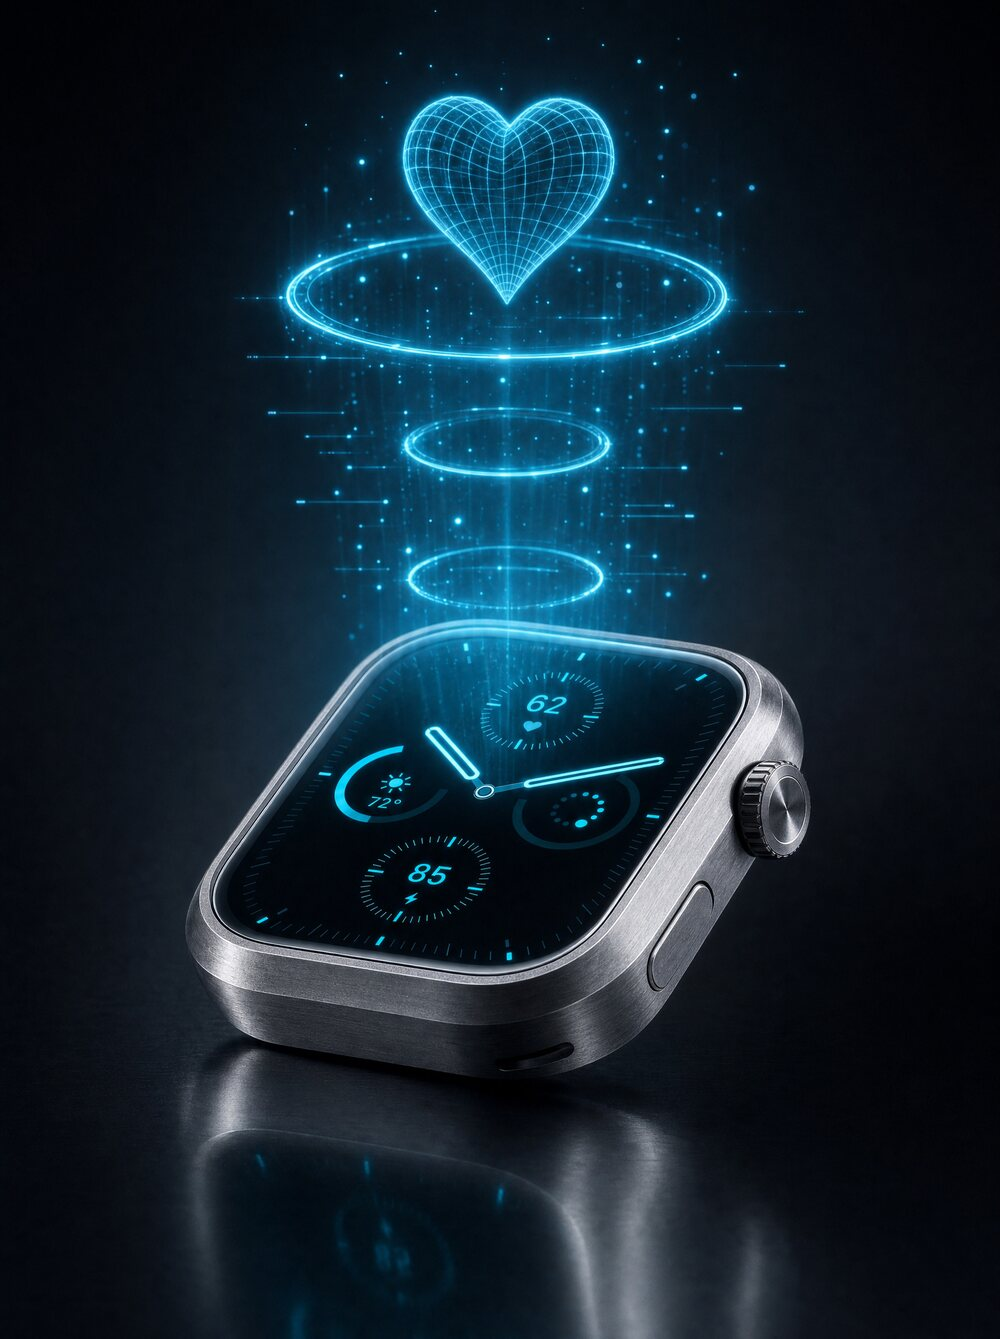
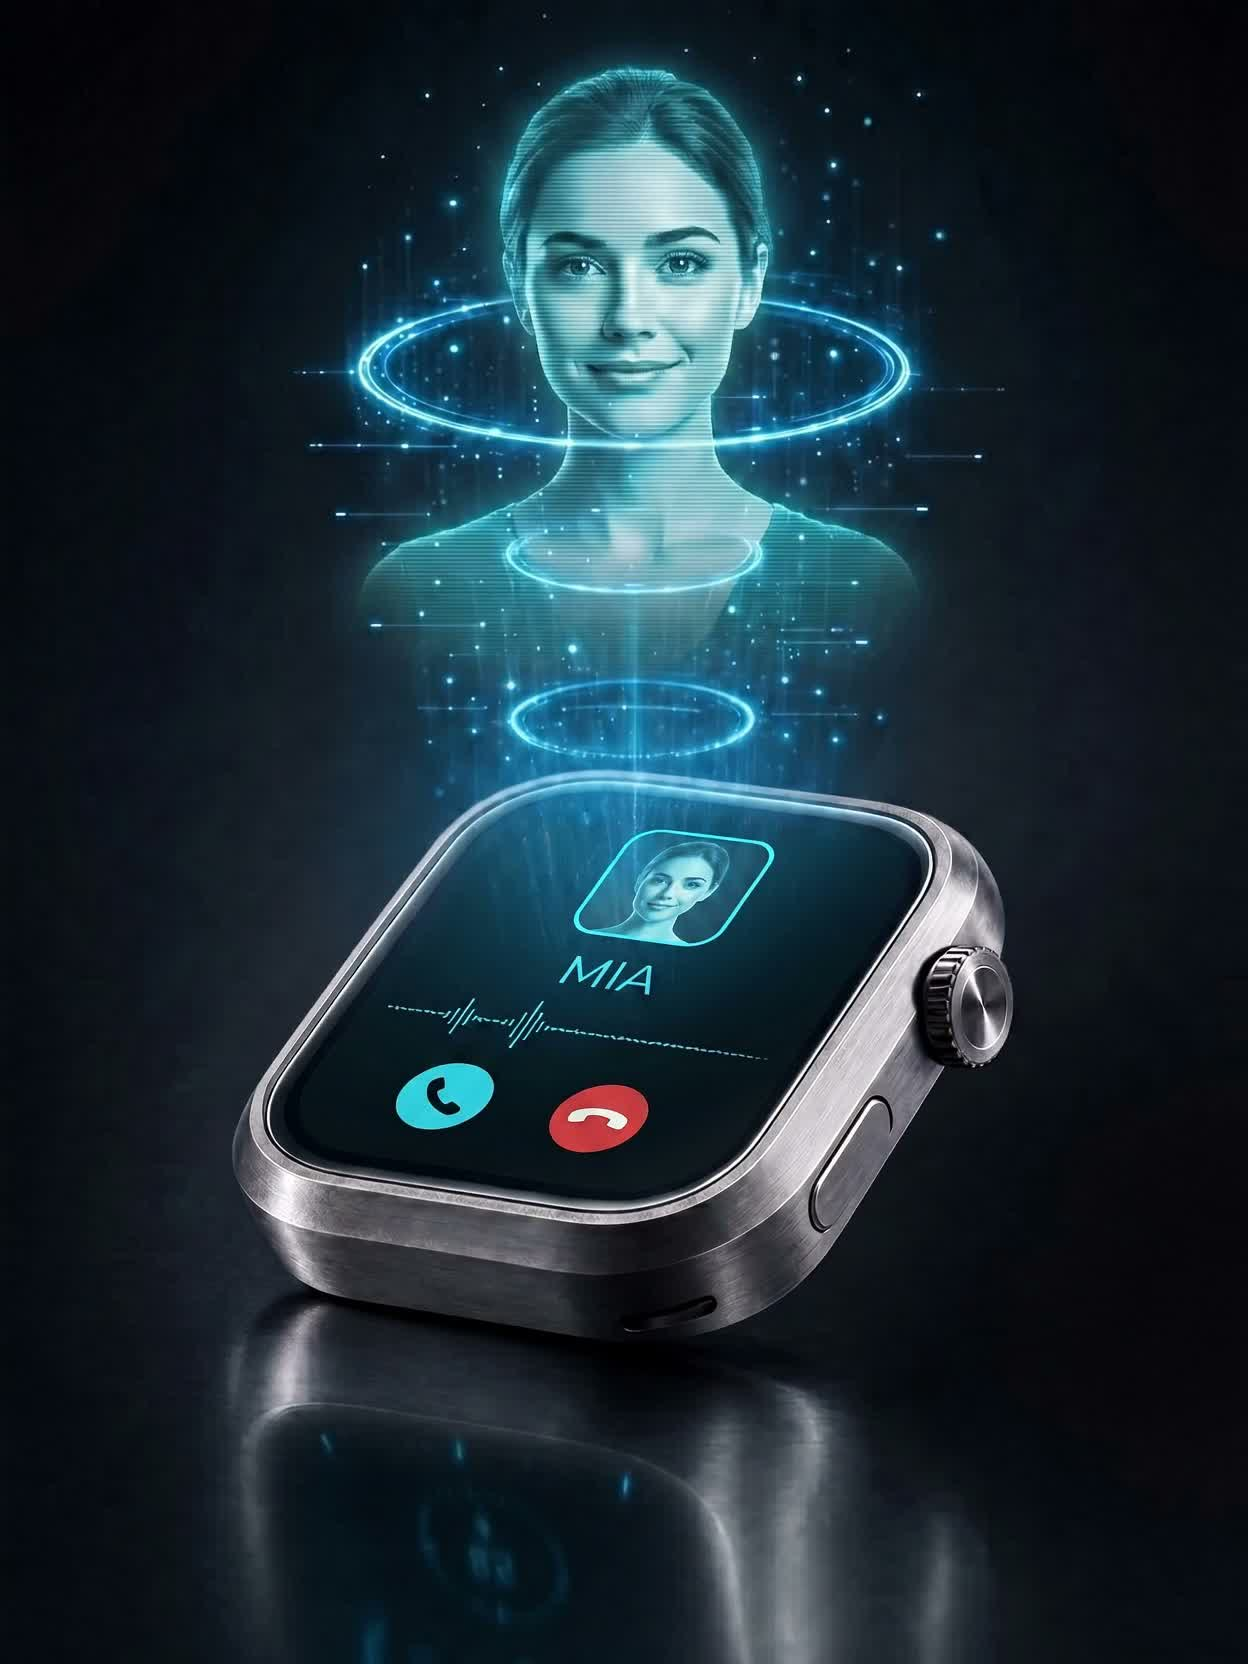
Replace holo section with seamless Star-Trek call video
Swap the heart hologram for a holographic video call: a talking
woman's bust (Mia) above the watch in the cyan accent, with the
screen showing an in-call UI (contact + thumbnail, no clock).
Generated with start frame = end frame so the watch stays static
and the loop is seamless with no visible jump.

Also refines the Closer Look, Footer and Highlights sections.

Changed region(s): [[0.186, 0.0306, 0.806, 0.7655], [0.62, 0.643, 0.651, 0.6736], [0.217, 0.7961, 0.248, 0.8267]]

diff --git a/src/components/Footer.tsx b/src/components/Footer.tsx
@@ -1,4 +1,4 @@
-import { useRef, useState, type JSX } from 'react'
+import { useEffect, useRef, useState, type JSX } from 'react'
 import { m, useInView, useReducedMotion } from 'framer-motion'
 import { ease } from '../anim'
 
@@ -10,11 +10,11 @@ import { ease } from '../anim'
 // for reduced-motion users.
 const GEM_OUTLINE = 'M14 5 H34 L43 17 L24 43 L5 17 Z'
 
-const Gem = (): JSX.Element => {
+const Gem = ({ ignite }: { ignite: boolean }): JSX.Element => {
   const reduced = useReducedMotion() ?? false
 
   return (
-    <div className="relative grid h-16 w-16 place-items-center">
+    <div className="group relative grid h-16 w-16 cursor-default place-items-center">
       {/* breathing aura */}
       <m.div
         aria-hidden
@@ -23,10 +23,26 @@ const Gem = (): JSX.Element => {
         animate={reduced ? undefined : { opacity: [0.4, 0.78, 0.4], scale: [0.9, 1.08, 0.9] }}
         transition={reduced ? undefined : { duration: 3.6, repeat: Infinity, ease: 'easeInOut' }}
       />
+      {/* hover glow — the stone warms when you bring a cursor near it */}
+      <div
+        aria-hidden
+        className="absolute h-16 w-16 rounded-full opacity-0 transition-opacity duration-500 group-hover:opacity-100"
+        style={{ background: 'radial-gradient(circle, oklch(0.85 0.14 205 / 0.55), transparent 65%)', filter: 'blur(10px)' }}
+      />
+      {/* ignition flash: the gem fires the light that goes on to write the line */}
+      {!reduced && (
+        <m.div
+          aria-hidden
+          className="pointer-events-none absolute h-16 w-16 rounded-full"
+          style={{ background: 'radial-gradient(circle, oklch(1 0.04 200 / 0.9), transparent 60%)' }}
+          initial={{ opacity: 0, scale: 0.5 }}
+          animate={ignite ? { opacity: [0, 0.85, 0], scale: [0.5, 1.5, 1.2] } : { opacity: 0 }}
+          transition={{ duration: 0.7, ease, times: [0, 0.3, 1] }}
+        />
+      )}
       <svg
         viewBox="0 0 48 48" role="img" aria-label="Faceted sapphire"
-        className="relative h-12 w-12 overflow-visible"
-        style={{ filter: 'drop-shadow(0 4px 8px oklch(0.13 0.013 245 / 0.65))' }}
+        className="relative h-12 w-12 overflow-visible transition-[filter] duration-500 [filter:drop-shadow(0_4px_8px_oklch(0.13_0.013_245/0.65))] group-hover:[filter:drop-shadow(0_0_14px_oklch(0.85_0.12_205/0.7))]"
       >
         <defs>
           <linearGradient id="gemTable" x1="0" y1="0" x2="0" y2="1">
@@ -107,11 +123,26 @@ const LaserLine = ({ start, reduced, onDone }: { start: boolean; reduced: boolea
 
   return (
     <div className="relative mx-auto mt-6 w-fit">
+      {/* ignition beam: light drops from the gem above and lands on the line,
+          then the horizontal blade takes over and writes the words. */}
+      {start && (
+        <m.span
+          aria-hidden
+          className="pointer-events-none absolute -top-9 left-1/2 h-9 w-[2px] origin-top -translate-x-1/2 rounded-full"
+          style={{
+            background: 'linear-gradient(to bottom, transparent, oklch(0.99 0.02 200) 30%, oklch(0.99 0.02 200))',
+            boxShadow: '0 0 8px oklch(0.9 0.1 205), 0 0 20px oklch(0.85 0.12 205 / 0.7)',
+          }}
+          initial={{ scaleY: 0, opacity: 0 }}
+          animate={{ scaleY: [0, 1, 1], opacity: [0, 1, 0] }}
+          transition={{ duration: 0.55, ease, times: [0, 0.5, 1] }}
+        />
+      )}
       <m.p
         className={cls}
         initial={{ clipPath: 'inset(0 100% 0 0)' }}
         animate={start ? { clipPath: 'inset(0 0% 0 0)' } : { clipPath: 'inset(0 100% 0 0)' }}
-        transition={{ duration: LASER_DUR, ease }}
+        transition={{ duration: LASER_DUR, ease, delay: 0.3 }}
         onAnimationComplete={() => { if (start) onDone() }}
       >
         Measured in light.
@@ -127,7 +158,7 @@ const LaserLine = ({ start, reduced, onDone }: { start: boolean; reduced: boolea
           }}
           initial={{ left: '0%', opacity: 0 }}
           animate={{ left: '100%', opacity: [0, 1, 1, 0] }}
-          transition={{ duration: LASER_DUR, ease, opacity: { duration: LASER_DUR, times: [0, 0.05, 0.92, 1] } }}
+          transition={{ duration: LASER_DUR, ease, delay: 0.3, opacity: { duration: LASER_DUR, delay: 0.3, times: [0, 0.05, 0.92, 1] } }}
         />
       )}
     </div>
@@ -138,13 +169,29 @@ const Footer = (): JSX.Element => {
   const ref = useRef<HTMLDivElement>(null)
   const reduced = useReducedMotion() ?? false
   const inView = useInView(ref, { once: true, margin: '-15%' })
-  // The footer starts empty; once the laser finishes writing the wordmark, the
-  // surrounding content fades in. Reduced-motion shows everything at once.
+  // Reveal is staged so the gem reads as the *source* of the light: the eyebrow
+  // and gem arrive first, the gem fires an ignition flash, a beam drops to the
+  // line, and only then does the laser write the words. The fine print fades in
+  // once writing completes. Reduced-motion shows everything at once.
+  const [igniting, setIgniting] = useState(false)
+  const [writing, setWriting] = useState(false)
   const [written, setWritten] = useState(false)
   const revealed = reduced || written
 
-  // Eyebrow + heart sit above the wordmark, the divider + fine print below;
-  // both groups fade in together after the writing completes.
+  useEffect(() => {
+    if (!inView || reduced) return
+    const t1 = window.setTimeout(() => { setIgniting(true) }, 500)
+    const t2 = window.setTimeout(() => { setWriting(true) }, 850)
+    return () => { window.clearTimeout(t1); window.clearTimeout(t2) }
+  }, [inView, reduced])
+
+  // Top cluster (eyebrow + gem) leads the sequence — visible before the writing.
+  const topFade = {
+    initial: { opacity: 0, y: 6 },
+    animate: { opacity: inView || reduced ? 1 : 0, y: inView || reduced ? 0 : 6 },
+    transition: { duration: 0.8, ease },
+  }
+  // Fine print below the wordmark trails in after the writing completes.
   const fade = {
     initial: { opacity: 0 },
     animate: { opacity: revealed ? 1 : 0, y: revealed ? 0 : 6 },
@@ -161,21 +208,21 @@ const Footer = (): JSX.Element => {
         transition={{ duration: 0.9, ease }}
       />
       <div ref={ref} className="mx-auto max-w-shell text-center">
-        <m.div {...fade}>
+        <m.div {...topFade}>
           <p className="font-sans text-[0.74rem] uppercase tracking-[0.34em] text-accent">A concept prototype</p>
           <div className="mx-auto mt-8 flex justify-center">
-            <Gem />
+            <Gem ignite={igniting} />
           </div>
         </m.div>
 
-        <LaserLine start={inView} reduced={reduced} onDone={() => { setWritten(true) }} />
+        <LaserLine start={writing} reduced={reduced} onDone={() => { setWritten(true) }} />
 
         <m.div {...fade}>
           {/* Branded sign-off: just the wordmark, so the page closes signed
               rather than trailing off — the orbit mark stays unique to the navbar. */}
-          <div className="mx-auto mt-12 flex items-center justify-center gap-2.5 font-display text-[1rem] font-semibold tracking-[0.24em] text-ink/85">
-            <span style={{ textShadow: '0 0 12px oklch(0.8 0.1 205 / 0.4)' }}>AETHER</span>
-            <span className="font-sans text-[0.66rem] font-normal uppercase tracking-[0.3em] text-faint">Aura</span>
+          <div className="group mx-auto mt-12 flex w-fit cursor-default items-center justify-center gap-2.5 font-display text-[1rem] font-semibold tracking-[0.24em] text-ink/85">
+            <span className="transition-[text-shadow] duration-500 [text-shadow:0_0_12px_oklch(0.8_0.1_205/0.4)] group-hover:[text-shadow:0_0_22px_oklch(0.85_0.12_205/0.75)]">AETHER</span>
+            <span className="font-sans text-[0.66rem] font-normal uppercase tracking-[0.3em] text-faint transition-colors duration-500 group-hover:text-accent/80">Aura</span>
           </div>
           <p className="mt-9 font-sans text-[0.8rem] text-faint">
             © 2026 AETHER · Aura. All renders and footage are AI-generated.

diff --git a/src/components/CloserLook.tsx b/src/components/CloserLook.tsx
@@ -13,11 +13,9 @@ interface Feature {
 }
 
 const FEATURES: Feature[] = [
-  { key: 'shell', label: 'Machined shell', body: 'One billet of Grade-5 titanium, milled into a seamless, sealed monocoque.', webp: 'assets/aura_hero_1200.webp', jpg: 'assets/aura_hero_1000.jpg', alt: 'Three-quarter view of the titanium Aura' },
-  { key: 'profile', label: 'Slim profile', body: 'A knife-clean edge that vanishes under a cuff — full sensor stack and all.', webp: 'assets/aura_profile_1200.webp', jpg: 'assets/aura_profile_1000.jpg', alt: 'Side profile of the titanium Aura' },
-  { key: 'sapphire', label: 'Level sapphire', body: 'Sapphire set flush to four microns — light leaves the display without a shadow.', webp: 'assets/aura_cl_sapphire_1200.webp', jpg: 'assets/aura_cl_sapphire_1000.jpg', alt: 'Macro of the flush sapphire crystal on the Aura' },
-  { key: 'sensor', label: 'Optical back', body: 'Cyan and emerald lasers read heart rate and glucose through the skin — no contact pads.', webp: 'assets/aura_cl_sensor_1200.webp', jpg: 'assets/aura_cl_sensor_1000.jpg', alt: 'The Aura caseback with its laser health-sensor array' },
-  { key: 'core', label: 'Nuclear core', body: 'A sliver of radioisotope fuel powers the Aura for decades — no port, no cable, no charge.', webp: 'assets/aura_cl_core_1200.webp', jpg: 'assets/aura_cl_core_1000.jpg', alt: 'Cutaway of the Aura revealing its glowing radioisotope fuel cell' },
+  { key: 'shell', label: 'Machined shell', body: 'One billet of titanium, milled into a sealed monocoque.', webp: 'assets/aura_hero_1200.webp', jpg: 'assets/aura_hero_1000.jpg', alt: 'Three-quarter view of the titanium Aura' },
+  { key: 'sensor', label: 'Optical back', body: 'Lasers read heart rate and glucose straight through the skin.', webp: 'assets/aura_cl_sensor_1200.webp', jpg: 'assets/aura_cl_sensor_1000.jpg', alt: 'The Aura caseback with its laser health-sensor array' },
+  { key: 'core', label: 'Nuclear core', body: 'A sliver of radioisotope fuel runs the Aura for decades. No cable.', webp: 'assets/aura_cl_core_1200.webp', jpg: 'assets/aura_cl_core_1000.jpg', alt: 'Cutaway of the Aura revealing its glowing radioisotope fuel cell' },
 ]
 
 // Sticky product viewer: a pinned render on one side, an accordion of design
@@ -28,20 +26,20 @@ const CloserLook = (): JSX.Element => {
   const img = FEATURES[active] ?? FEATURES[0]!
 
   return (
-    <section id="design" className="relative flex min-h-svh snap-start flex-col justify-center bg-bg px-[max(1.25rem,6vw)] py-[clamp(4rem,9vh,6.5rem)]">
+    <section id="design" className="relative flex min-h-svh snap-start flex-col justify-center px-[max(1.25rem,6vw)] py-[clamp(3rem,6vh,4.5rem)]">
       <div className="mx-auto w-full max-w-shell">
-        <Reveal className="mb-12">
+        <Reveal className="mb-8">
           <p className="font-sans text-[0.74rem] uppercase tracking-[0.34em] text-accent">Take a closer look</p>
           <h2 className="mt-4 font-display text-[clamp(2rem,4.6vw,3.6rem)] font-medium leading-[1.04] text-gradient">
             Design you can feel before you read a spec.
           </h2>
         </Reveal>
 
-        <div className="grid gap-10 md:grid-cols-2 md:gap-16">
+        <div className="grid items-center gap-8 md:grid-cols-2 md:gap-12">
           {/* Sticky product */}
-          <div className="mx-auto w-full max-w-sm md:max-w-none md:sticky md:top-24 md:h-fit">
+          <div className="mx-auto w-full max-w-[18rem] md:sticky md:top-24 md:h-fit md:max-w-sm">
             <div className="relative overflow-hidden rounded-[28px] border border-hairline-soft bg-[radial-gradient(120%_120%_at_50%_0%,oklch(0.22_0.016_242)_0%,oklch(0.145_0.014_245)_70%)]">
-              <div className="relative flex aspect-square items-center justify-center py-8 md:aspect-[4/5] md:py-10">
+              <div className="relative flex aspect-square items-center justify-center py-5">
                 <AnimatePresence mode="wait">
                   <m.picture
                     key={img.key}
@@ -52,7 +50,7 @@ const CloserLook = (): JSX.Element => {
                     className="relative h-full w-full"
                   >
                     <source type="image/webp" srcSet={img.webp} />
-                    <img src={img.jpg} alt={img.alt} className="h-full w-full object-contain p-6" loading="lazy" decoding="async" />
+                    <img src={img.jpg} alt={img.alt} className="h-full w-full object-contain p-4" loading="lazy" decoding="async" />
                   </m.picture>
                 </AnimatePresence>
                 <div className="pointer-events-none absolute left-1/2 top-[12%] h-[1px] w-2/3 -translate-x-1/2 bg-gradient-to-r from-transparent via-accent/40 to-transparent" />
@@ -92,7 +90,7 @@ const CloserLook = (): JSX.Element => {
                   <button
                     onClick={() => { setActive(idx); }}
                     aria-expanded={open}
-                    className="flex w-full items-center gap-4 py-6 pl-5 text-left"
+                    className="flex w-full items-center gap-4 py-4 pl-5 text-left"
                   >
                     <span className={`font-mono text-[0.8rem] tabular-nums transition-colors ${open ? 'text-accent' : 'text-faint'}`}>
                       {`0${String(idx + 1)}`}
@@ -113,7 +111,7 @@ const CloserLook = (): JSX.Element => {
                         transition={{ duration: 0.4, ease }}
                         className="overflow-hidden"
                       >
-                        <p className="pb-7 pl-5 pr-8 font-sans text-[1.05rem] leading-relaxed text-muted">{f.body}</p>
+                        <p className="pb-5 pl-5 pr-8 font-sans text-[1.05rem] leading-relaxed text-muted">{f.body}</p>
                       </m.div>
                     )}
                   </AnimatePresence>

diff --git a/src/components/HoloFeature.tsx b/src/components/HoloFeature.tsx
@@ -90,27 +90,21 @@ const HoloFeature = (): JSX.Element => {
       <div className="relative mx-auto grid max-w-shell items-center gap-12 md:grid-cols-[0.9fr_1.1fr] md:gap-16">
         <m.div style={{ y }}>
           <Reveal>
-            <p className="font-sans text-[0.74rem] uppercase tracking-[0.34em] text-accent">The frontier</p>
+            <p className="font-sans text-[0.74rem] uppercase tracking-[0.34em] text-accent">Holographic calls</p>
             <h2 className="mt-4 font-display text-[clamp(2.2rem,5vw,4rem)] font-medium leading-[1.02]">
               <span
                 className="text-gradient-accent"
                 style={reduced ? undefined : { backgroundSize: '200% auto', animation: 'holo-pan 6s linear infinite' }}
               >
-                A display
+                Face to face
               </span>
               <br />
-              that lifts off the glass.
+              off your wrist.
             </h2>
-            <p className="mt-6 max-w-[44ch] font-sans text-[1.08rem] text-muted">
-              Above the sapphire face, a volumetric layer projects your vitals,
-              alerts and faces into the air — readable at a glance, without ever
-              raising your wrist. This is where elegance meets the future.
+            <p className="mt-6 max-w-[40ch] font-sans text-[1.08rem] text-muted">
+              The Aura lifts your caller into the air as a life-size hologram.
+              Telephony you look in the eye.
             </p>
-            <div className="mt-8 flex flex-wrap gap-3">
-              {['Volumetric UI', 'Depth-true', 'Glance-readable'].map((t) => (
-                <span key={t} className="rounded-full border border-accent/40 bg-accent/10 px-4 py-1.5 font-sans text-[0.84rem] text-ink">{t}</span>
-              ))}
-            </div>
           </Reveal>
         </m.div>
 
@@ -136,7 +130,7 @@ const HoloFeature = (): JSX.Element => {
               ) : (
                 <picture>
                   <source type="image/webp" srcSet="assets/aura_holo_film_poster.webp" />
-                  <img src="assets/aura_holo_film_poster.jpg" alt="The Aura projecting a holographic display" className="absolute inset-0 h-full w-full object-cover" loading="lazy" decoding="async" />
+                  <img src="assets/aura_holo_film_poster.jpg" alt="The Aura projecting a holographic video call of a person above its face" className="absolute inset-0 h-full w-full object-cover" loading="lazy" decoding="async" />
                 </picture>
               )}
             </div>

diff --git a/src/components/Highlights.tsx b/src/components/Highlights.tsx
@@ -31,20 +31,6 @@ const SLIDES: Slide[] = [
     art: 'aura_hl_calls',
   },
   {
-    key: 'hologram',
-    label: 'Hologram',
-    title: 'A display that lifts off.',
-    body: 'Volumetric projection raises your metrics into the air above the sapphire face.',
-    art: 'aura_hl_hologram',
-  },
-  {
-    key: 'titanium',
-    label: 'Titanium',
-    title: 'Flush to four microns.',
-    body: 'The sapphire lens sits perfectly level with the machined titanium — nothing casts a shadow.',
-    art: 'aura_hl_titanium',
-  },
-  {
     key: 'dive',
     label: 'Dive',
     title: 'Down to 500 metres.',

diff --git a/src/index.css b/src/index.css
@@ -31,7 +31,16 @@ html.lenis, html.lenis body { height: auto; }
 .lenis.lenis-stopped { overflow: hidden; }
 
 body {
-  background: var(--bg);
+  /* Pure flat black reads dead, so the base slate carries a couple of very
+     soft, diffuse cyan light pools (studio-lit feel). Attachment:fixed keeps
+     them anchored to the viewport so each screen catches a gentle, asymmetric
+     glow instead of an even void. Kept low-alpha so text contrast is untouched. */
+  background:
+    radial-gradient(48% 42% at 14% 8%,  oklch(0.36 0.08 210 / 0.11), transparent 72%),
+    radial-gradient(46% 40% at 88% 60%, oklch(0.34 0.08 200 / 0.09), transparent 72%),
+    radial-gradient(60% 45% at 50% 108%, oklch(0.30 0.07 225 / 0.08), transparent 70%),
+    var(--bg);
+  background-attachment: fixed;
   color: var(--ink);
   font-family: Inter, system-ui, sans-serif;
   -webkit-font-smoothing: antialiased;

diff --git a/src/App.tsx b/src/App.tsx
@@ -67,7 +67,7 @@ const App = (): JSX.Element => {
       <MotionConfig reducedMotion="user">
         <AnimatePresence>{!ready && <Preloader key="preloader" />}</AnimatePresence>
         <Topbar />
-        <main className="bg-bg text-ink">
+        <main className="text-ink">
           <HeroReveal />
           <Highlights />
           <Centerpiece />